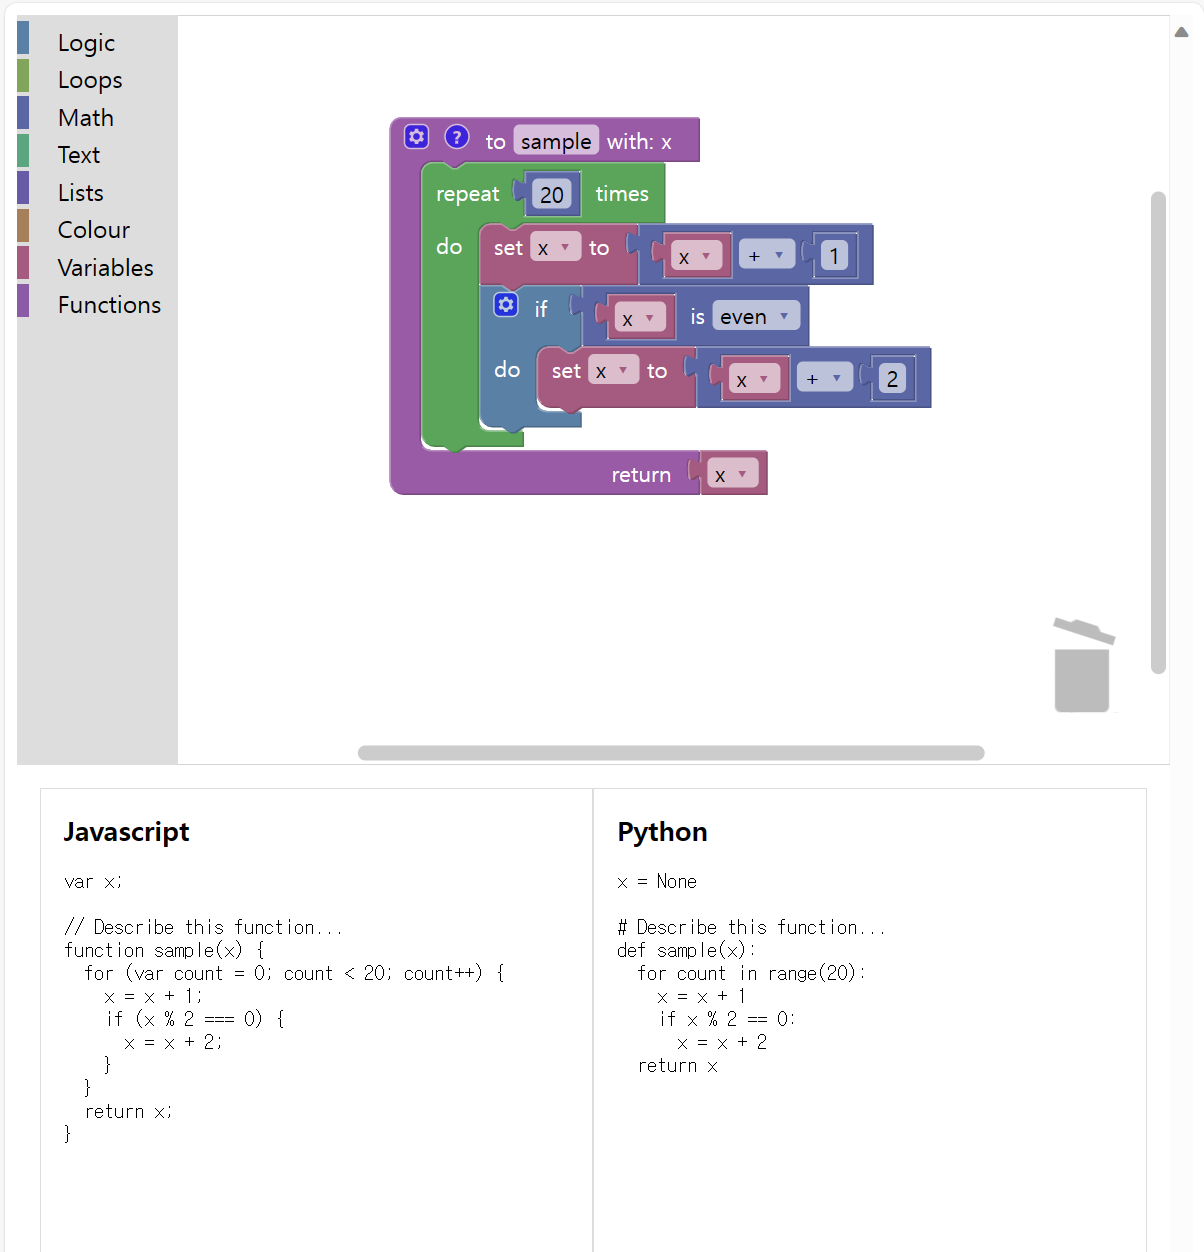
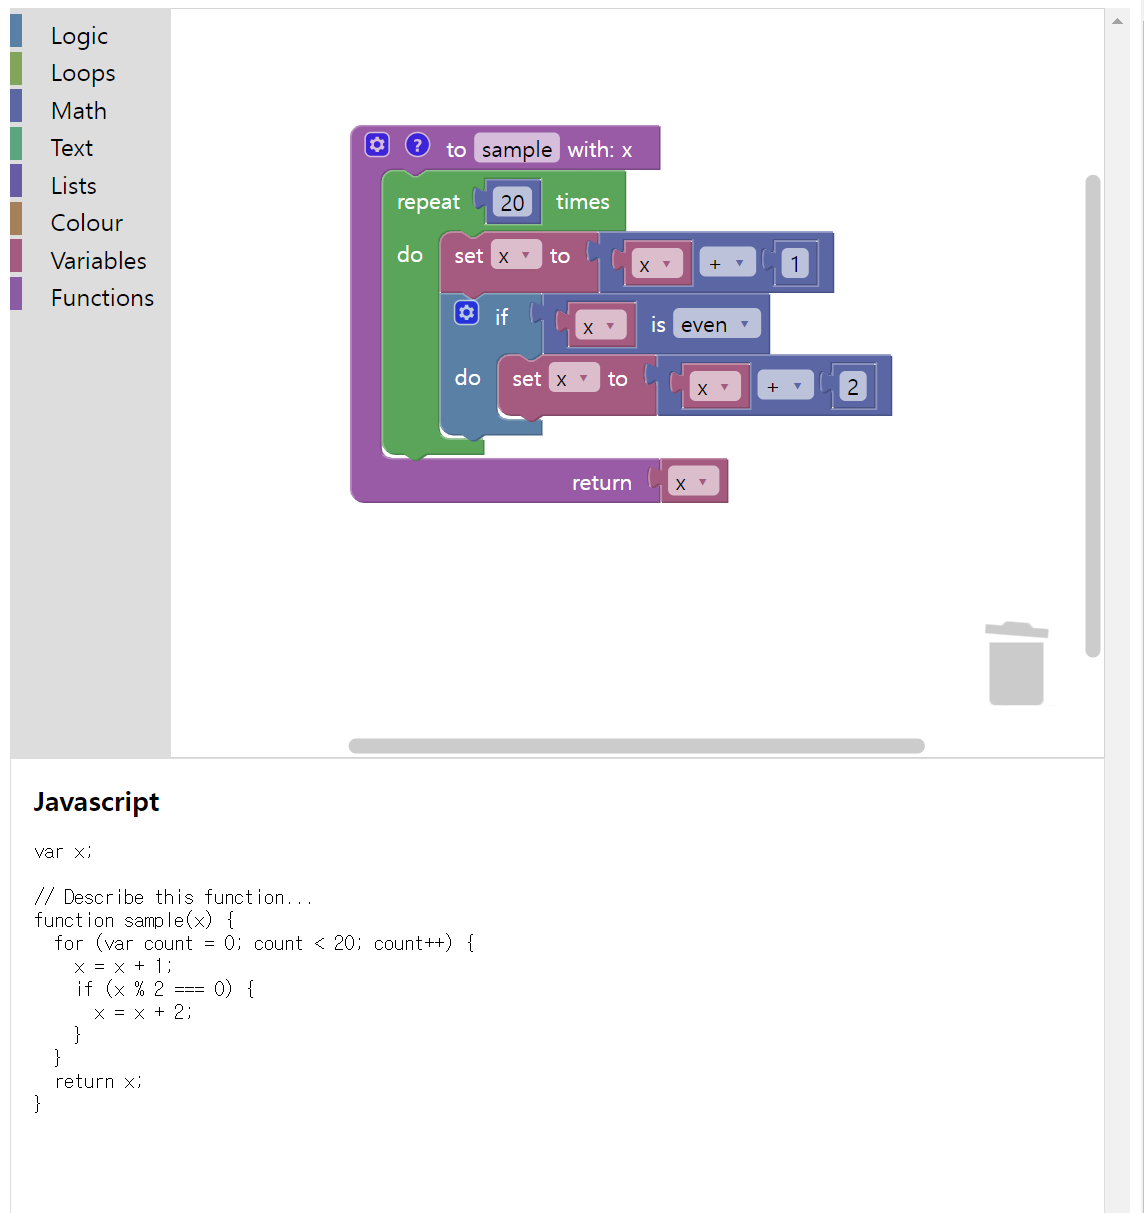
수정

diff --git a/src/App.js b/src/App.js
@@ -2,12 +2,10 @@ import './App.css';
 import React, { useEffect, useState } from 'react';
 import Blockly from 'blockly';
 import { javascriptGenerator } from 'blockly/javascript';
-import { pythonGenerator } from 'blockly/python';
 
 function App() {
     let workspace;
     const [code, setCode] = useState('');
-    const [codePython, setCodePython] = useState('');
 
     useEffect(() => {
         // eslint-disable-next-line @typescript-eslint/ban-ts-comment
@@ -27,7 +25,6 @@ function App() {
 
     const createCode = () => {
         setCode(javascriptGenerator.workspaceToCode(workspace));
-        setCodePython(pythonGenerator.workspaceToCode(workspace));
     };
 
     const keyDownEvent = (e) => {
@@ -337,15 +334,9 @@ function App() {
     return (
         <div id='scroll'>
             <div id='blocklyDiv' onKeyDown={keyDownEvent} />
-            <div className='container'>
-                <div className='generator'>
-                    <div className='title'>Javascript</div>
-                    <pre>{code}</pre>
-                </div>
-                <div className='generator'>
-                    <div className='title'>Python</div>
-                    <pre>{codePython}</pre>
-                </div>
+            <div className='generator'>
+                <div className='title'>Javascript</div>
+                <pre>{code}</pre>
             </div>
         </div>
     );

diff --git a/src/App.css b/src/App.css
@@ -3,20 +3,11 @@
   width: 100%;
 }
 
-.container {
-  margin: 2%;
-  width: 96%;
-  height: 500px;
-  display: flex;
-  justify-content: space-between;
-}
-
 .generator {
   overflow: auto;
   white-space: nowrap;
   border: 1px solid #ddd;
   height: 450px;
-  width: 49%;
   padding: 15px;
 }
 

diff --git a/README.md b/README.md
@@ -1,20 +1,18 @@
 # BlocklyCode : Blocky-based JavaScript and Python generator
 
 ## License
-코드의 주요 부분은 Apache v2.0 라이센스를 따르며, 주요 라이선스는 [여기](https://github.com/jinhee-han/employ24/edit/master/)를 참조
+코드의 주요 부분은 Apache v2.0 라이센스를 따르며, 주요 라이선스는 [여기](LICENSE)를 참조
 
 ## Introduction
 BlocklyCode는 Blockly를 기반으로 코드를 생성하는 프로그램입니다. 블록들을 배치하여 로직을 구성하면, 이에 해당하는 자바스크립트와 파이썬을 생성합니다.
 
 ## Getting Started Guide
-### 1단계: 요구사항 확인
-React와 npm을 사용합니다. React의 기본 주소인 http://localhost:3000/ 에서 실행됩니다.
 
-### 2단계: 설치 및 실행
+### 1단계: 설치 및 실행
     npm install -save react-scripts
     npm start
 
-### 3단계: 사용법
+### 2단계: 사용법
 1. 좌측의 탭을 열어 사용할 블록을 고른 후, 해당 블록을 드래그 앤 드랍으로 워크스페이스에 가져옵니다.
 2. 원하는 로직이 구성되었다면, 워크스페이스에 커서를 둔 상태에서 Ctrl+S로 코드를 생성합니다.
 
@@ -22,9 +20,3 @@ React와 npm을 사용합니다. React의 기본 주소인 http://localhost:3000
 조건문과 반복문을 사용하여 로직을 구성하고, 이에 대한 자바스크립트와 파이썬을 생성하는 예시입니다.
 
 ![샘플 이미지](/public/sample.png)
-
-## Folder Structure and Componet
-BlocklyJS의 폴더 구조는 아래와 같습니다.
-
-## Community
-BlocklyJS 개발을 위한 커뮤니티 공간은 [dna-platform.com](https://dna-platform.com)으로 이동하기 바랍니다.
